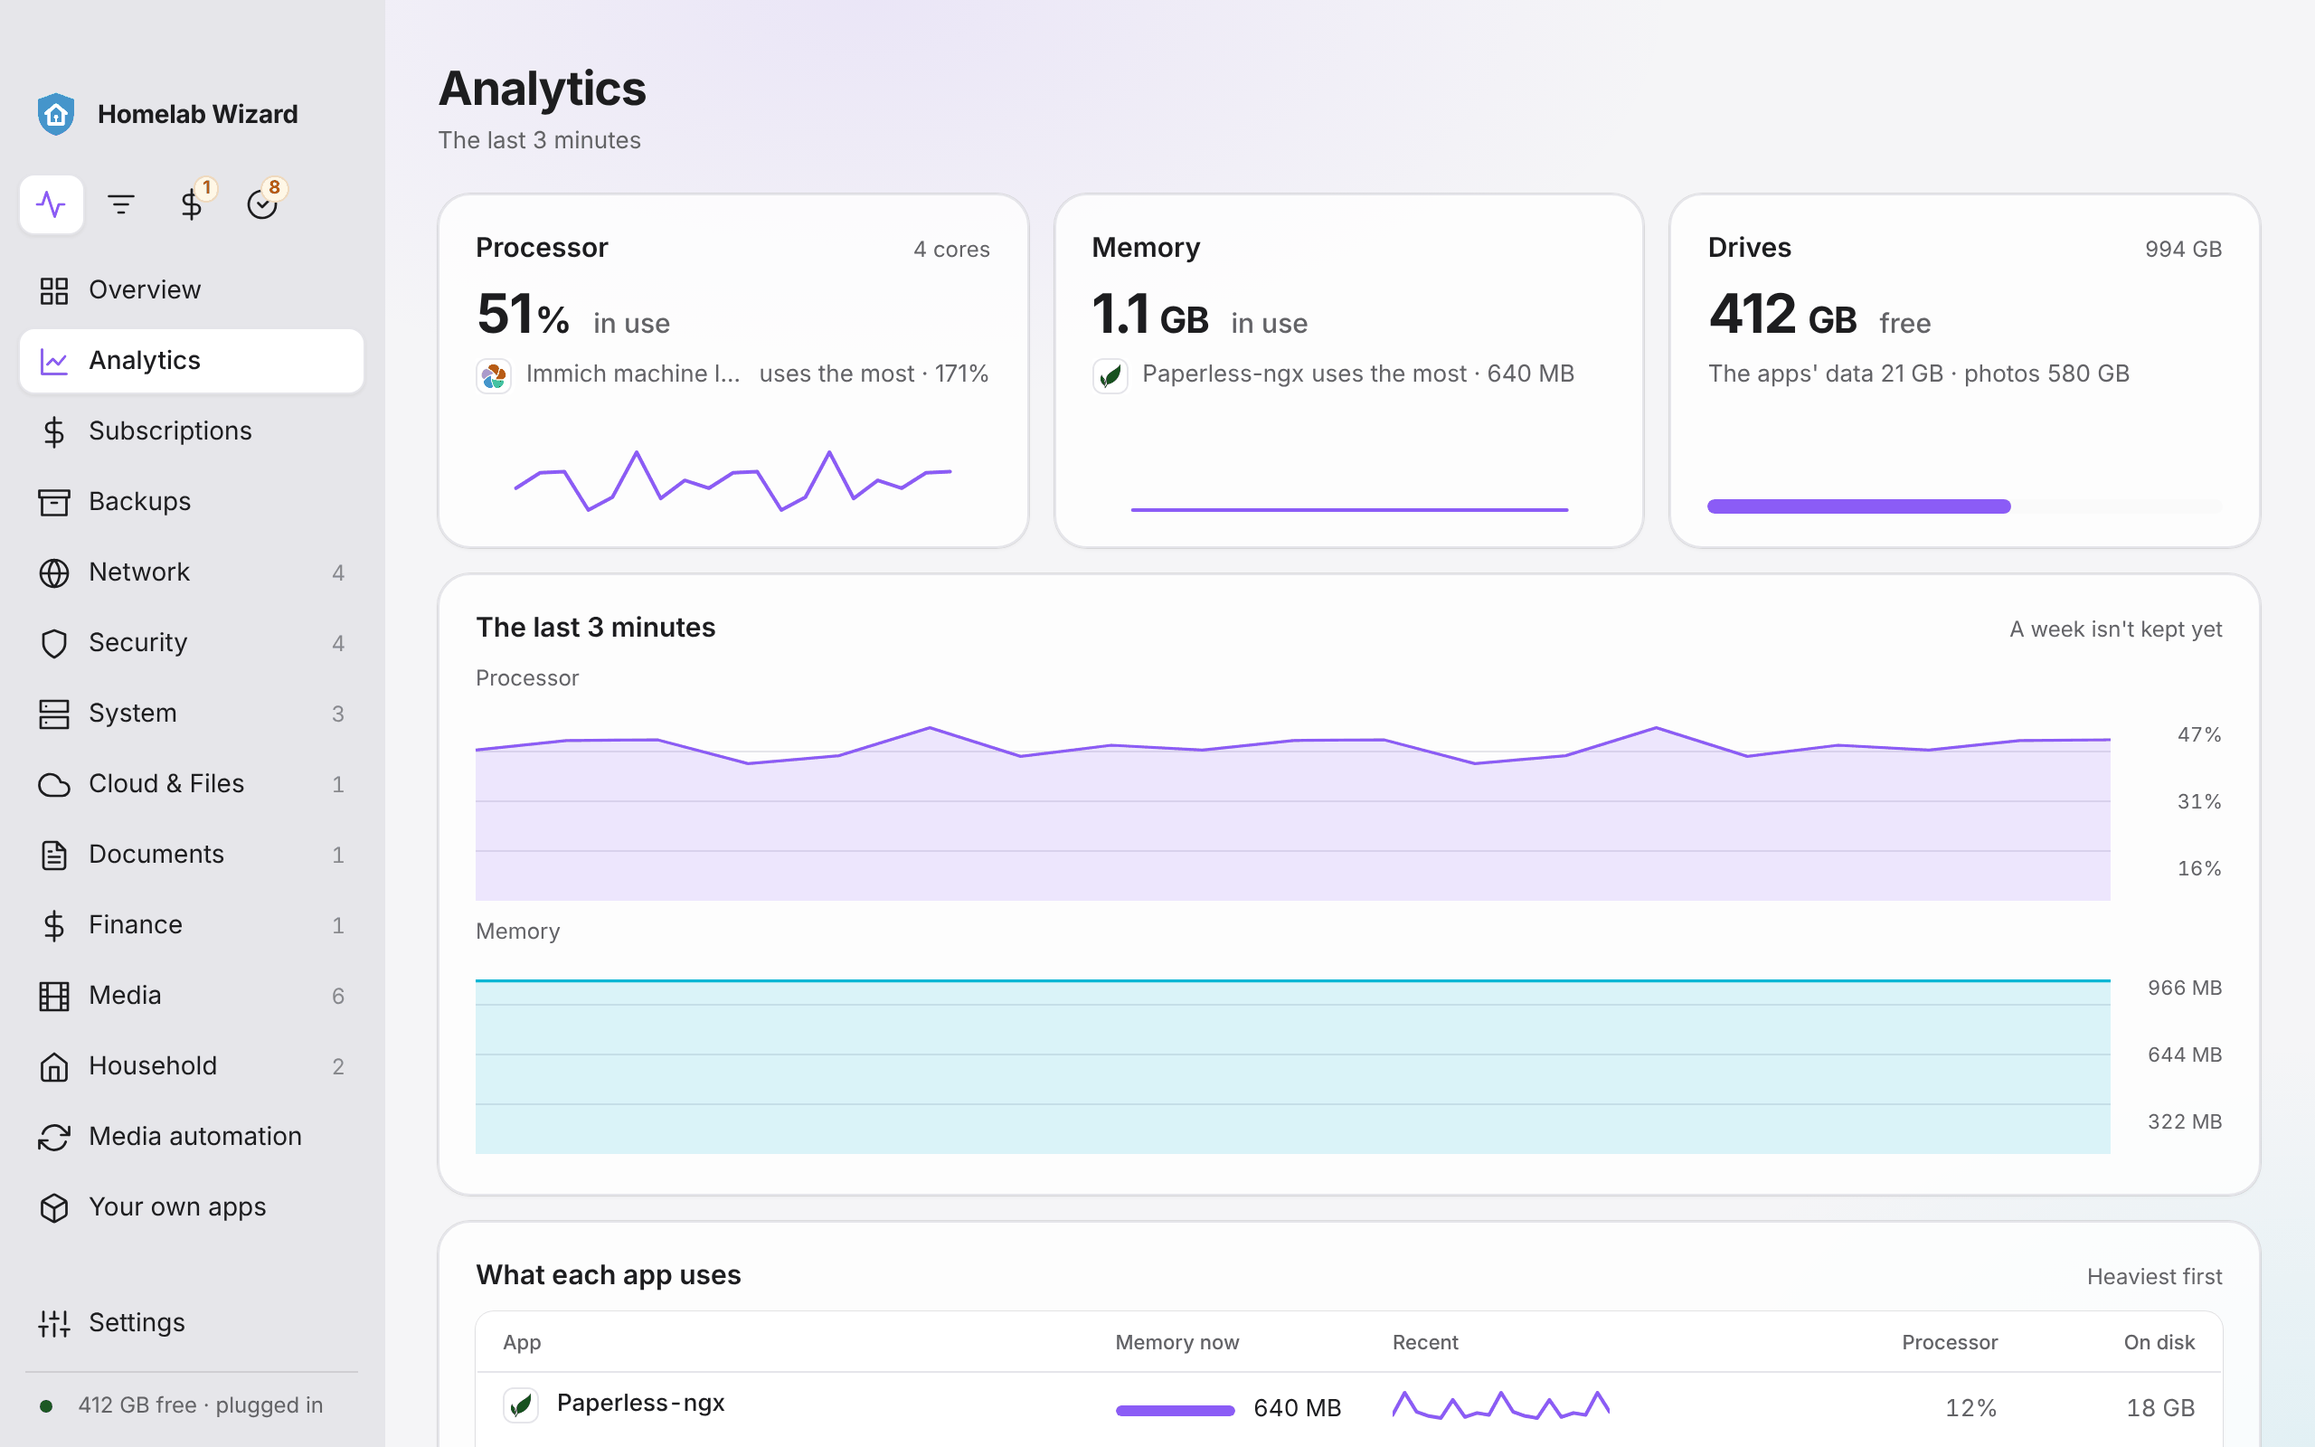
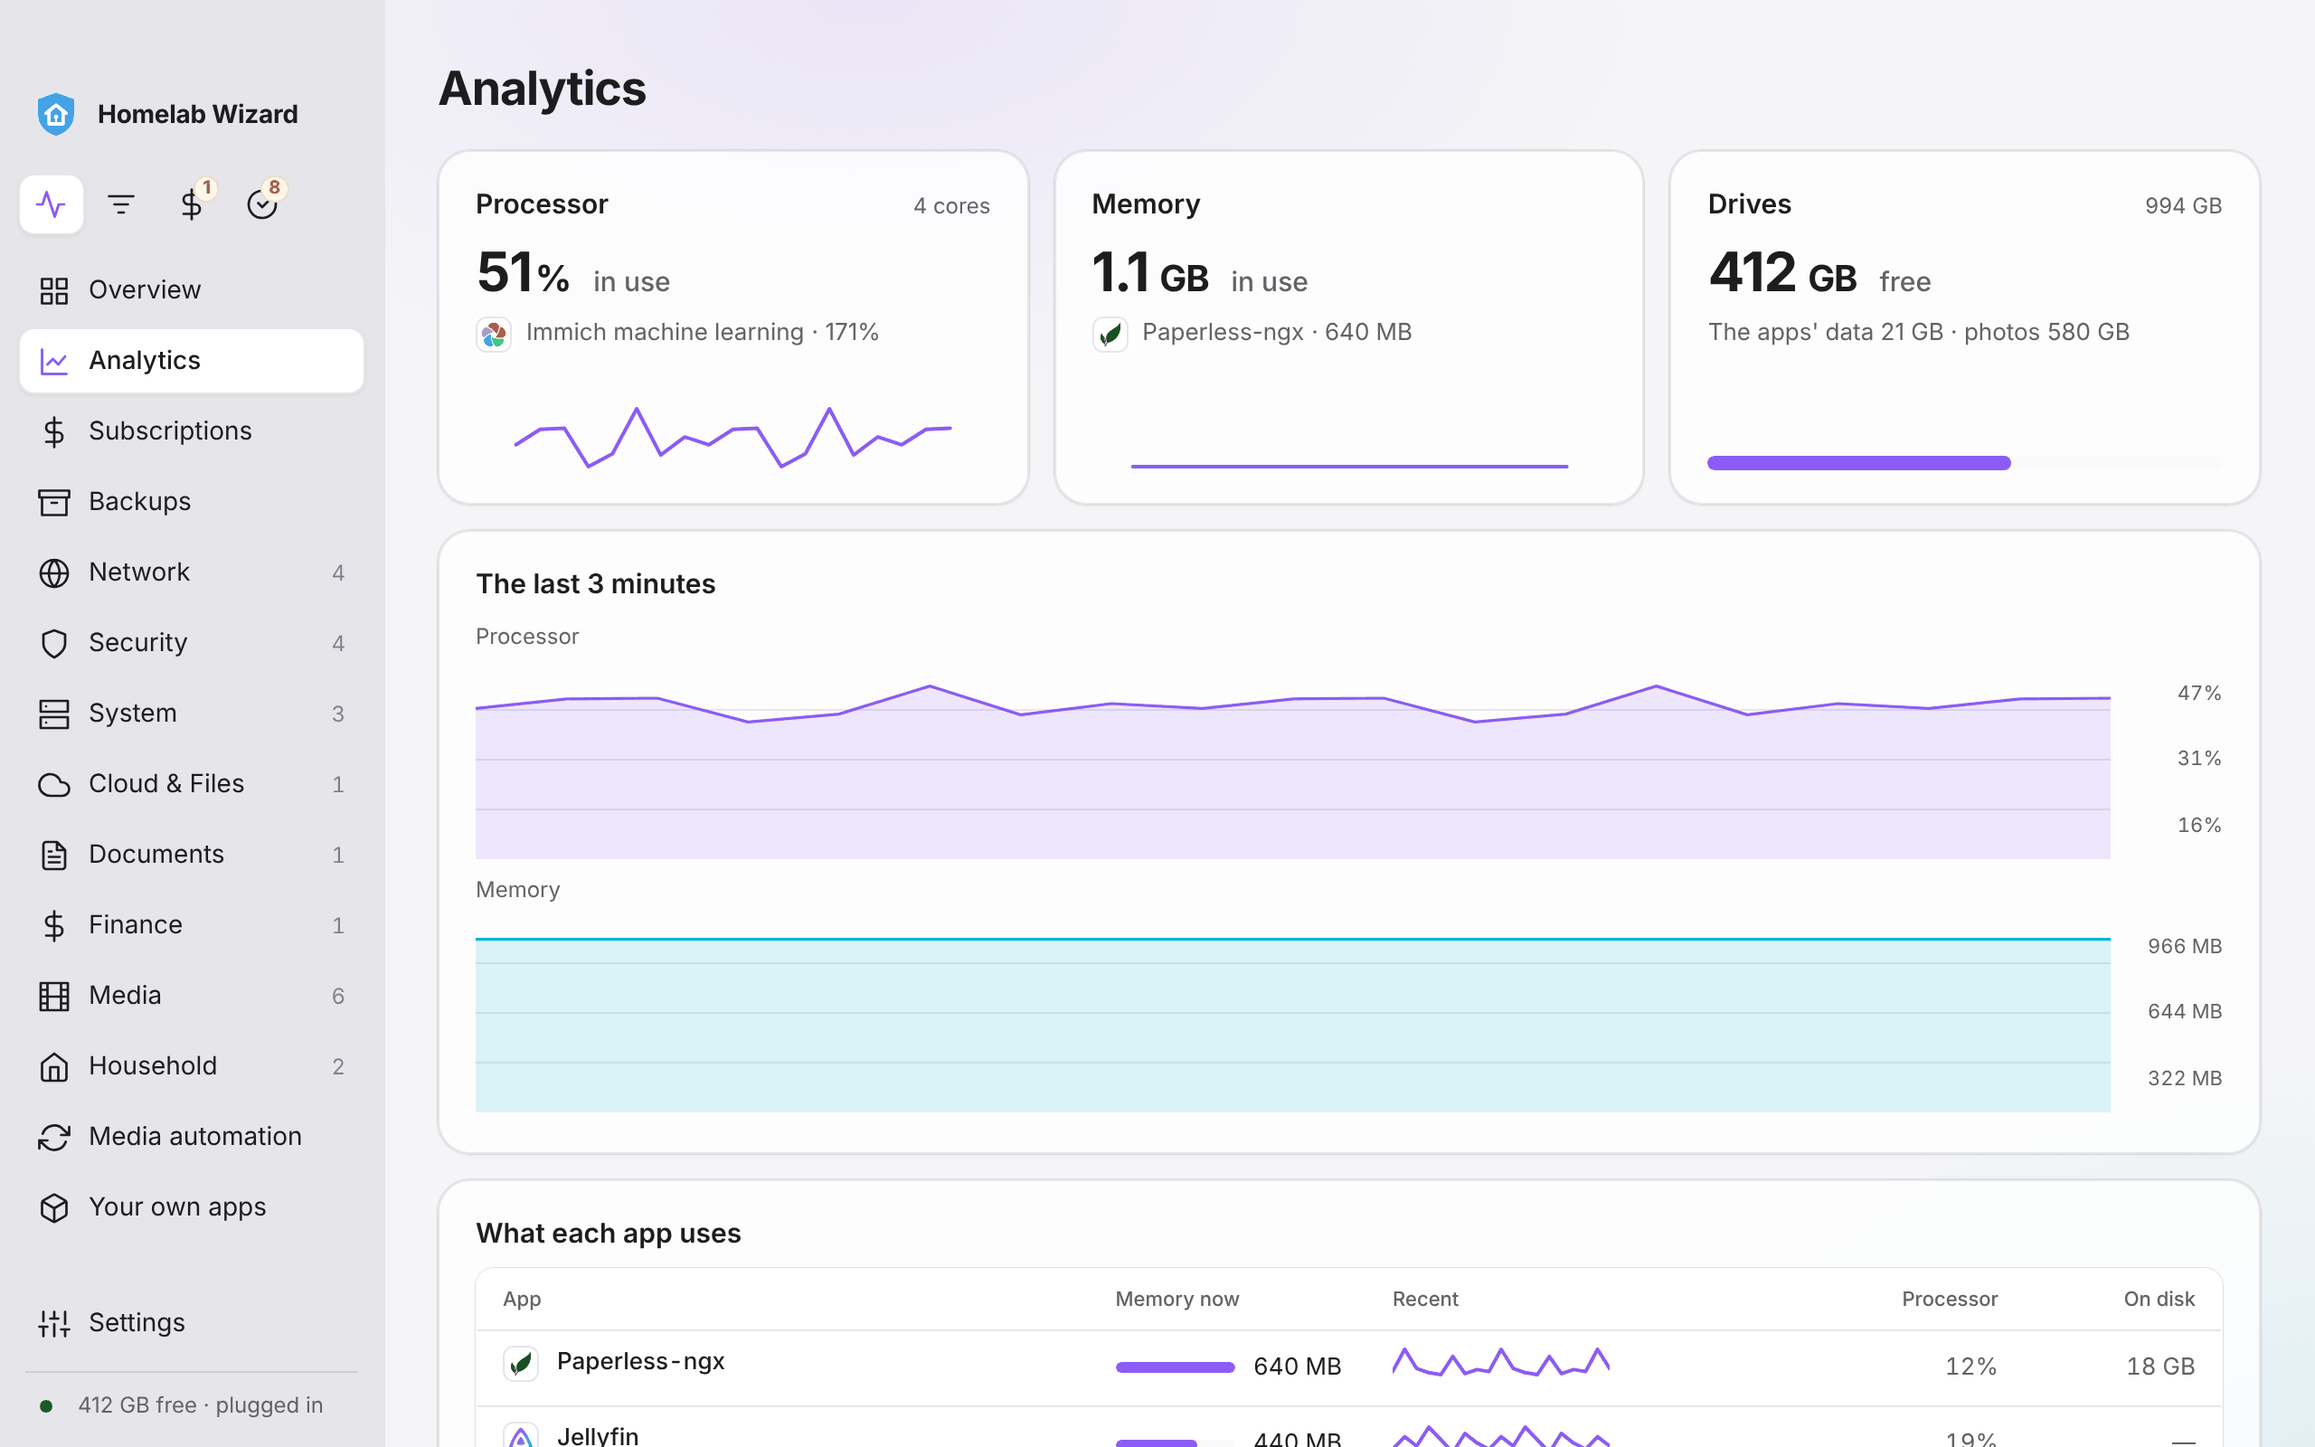
Analytics says less: the busiest app and its figure, no narration (#941)
* Analytics says less: no "uses the most", no second span, no narration

The Processor and Memory cards name the busiest app and its figure
("Immich machine learning · 171%"), so the name is no longer cut
short. The page's lead (the same span the timeline card is titled
with), "A week isn't kept yet" and "Heaviest first" are gone. The
iPhone and iPad Analytics page follows.

Claude-Session: https://claude.ai/code/session_01MiSTxrm6MCnNDF7kXW7KV6

* Smoke: open This Mac before looking for the new homelab's folder

'Set it up for me on a new machine' opened Settings and waited for the
This Mac card to show /Users/you/Homelab. Once Settings has its pages
it opens on General and hides that card, so the check passed only when
the folder was drawn first. It failed on CI twice tonight (#938, #941),
and fails every time when Settings is given time to load first. It now
opens This Mac, as the other This Mac checks do, and checks the same
folder there.

Claude-Session: https://claude.ai/code/session_01MiSTxrm6MCnNDF7kXW7KV6

---------

diff --git a/web/dist/app.js b/web/dist/app.js
@@ -8324,10 +8324,7 @@
     const folders = (storage?.apps || []).reduce((s3, f4) => s3 + f4.bytes, 0);
     const photos = (storage?.photos || []).reduce((s3, p3) => s3 + p3.bytes, 0);
     return /* @__PURE__ */ u3("div", { class: "antpage", children: [
-      /* @__PURE__ */ u3("div", { class: "row header", children: /* @__PURE__ */ u3("div", { children: [
-        /* @__PURE__ */ u3("h1", { children: "Analytics" }),
-        /* @__PURE__ */ u3("p", { class: "lead", children: span })
-      ] }) }),
+      /* @__PURE__ */ u3("div", { class: "row header", children: /* @__PURE__ */ u3("div", { children: /* @__PURE__ */ u3("h1", { children: "Analytics" }) }) }),
       /* @__PURE__ */ u3("div", { class: "anttiles", children: [
         /* @__PURE__ */ u3(Card, { kind: "anttile", id: "antCpu", children: [
           /* @__PURE__ */ u3("div", { class: "anthead", children: [
@@ -8340,7 +8337,7 @@
             " ",
             /* @__PURE__ */ u3("span", { class: "muted", children: cores ? "in use" : "of a core" })
           ] }) : "—" }),
-          /* @__PURE__ */ u3("div", { class: "antline muted", children: read && busiest && cpu[busiest] >= 0.1 ? who(busiest, `uses the most · ${pct(cpu[busiest])}%`) : read ? /* @__PURE__ */ u3("span", { class: "antwho", children: "Every app idle" }) : who(void 0, "") }),
+          /* @__PURE__ */ u3("div", { class: "antline muted", children: read && busiest && cpu[busiest] >= 0.1 ? who(busiest, `· ${pct(cpu[busiest])}%`) : read ? /* @__PURE__ */ u3("span", { class: "antwho", children: "Every app idle" }) : who(void 0, "") }),
           /* @__PURE__ */ u3("div", { class: "antfoot", children: totals3.cpu.length > 2 ? /* @__PURE__ */ u3(Spark, { values: totals3.cpu, w: 240, h: 36, title: `The apps' processor, ${span.toLowerCase()}` }) : /* @__PURE__ */ u3("span", { class: "antempty" }) })
         ] }),
         /* @__PURE__ */ u3(Card, { kind: "anttile", id: "antMem", children: [
@@ -8354,7 +8351,7 @@
             " ",
             /* @__PURE__ */ u3("span", { class: "muted", children: "in use" })
           ] }) : "—" }),
-          /* @__PURE__ */ u3("div", { class: "antline muted", children: read && heaviest ? who(heaviest, `uses the most · ${formatMem(mem[heaviest] || 0)}`) : who(void 0, "") }),
+          /* @__PURE__ */ u3("div", { class: "antline muted", children: read && heaviest ? who(heaviest, `· ${formatMem(mem[heaviest] || 0)}`) : who(void 0, "") }),
           /* @__PURE__ */ u3("div", { class: "antfoot", children: totals3.mem.length > 2 ? /* @__PURE__ */ u3(Spark, { values: totals3.mem, w: 240, h: 36, title: `The apps' memory, ${span.toLowerCase()}` }) : /* @__PURE__ */ u3("span", { class: "antempty" }) })
         ] }),
         /* @__PURE__ */ u3(Card, { kind: "anttile", id: "antDisk", children: [
@@ -8376,7 +8373,7 @@
       /* @__PURE__ */ u3(Card, { kind: "antweek", id: "antTime", children: [
         /* @__PURE__ */ u3("div", { class: "anthead", children: [
           /* @__PURE__ */ u3("h2", { children: span }),
-          /* @__PURE__ */ u3("span", { class: "muted", children: "A week isn't kept yet" })
+          /* @__PURE__ */ u3("span", { class: "muted" })
         ] }),
         totals3.cpu.length > 2 ? /* @__PURE__ */ u3(S, { children: [
           /* @__PURE__ */ u3(Chart, { values: totals3.cpu, kind: "cpu", label: "Processor", mark: (v3) => `${Math.round(cores ? v3 / cores : v3)}%` }),
@@ -8386,7 +8383,7 @@
       /* @__PURE__ */ u3(Card, { kind: "antapps", id: "antApps", children: [
         /* @__PURE__ */ u3("div", { class: "anthead", children: [
           /* @__PURE__ */ u3("h2", { children: "What each app uses" }),
-          /* @__PURE__ */ u3("span", { class: "muted", children: "Heaviest first" })
+          /* @__PURE__ */ u3("span", { class: "muted" })
         ] }),
         rows.length ? /* @__PURE__ */ u3("table", { class: "anttable", children: [
           /* @__PURE__ */ u3("thead", { children: /* @__PURE__ */ u3("tr", { children: [

diff --git a/web/src/status/Analytics.tsx b/web/src/status/Analytics.tsx
@@ -128,18 +128,18 @@ export function Analytics({ stats, history, totals, cores, disk, storage, apps, 
   const photos = (storage?.photos || []).reduce((s, p) => s + p.bytes, 0);
   return (
     <div class="antpage">
-      <div class="row header"><div><h1>Analytics</h1><p class="lead">{span}</p></div></div>
+      <div class="row header"><div><h1>Analytics</h1></div></div>
       <div class="anttiles">
         <Card kind="anttile" id="antCpu">
           <div class="anthead"><h2>Processor</h2><span class="muted">{cores ? `${cores} cores` : ''}</span></div>
           <div class="antfig">{read ? <>{cores ? pct(totalCpu / cores) : pct(totalCpu)}<small>%</small> <span class="muted">{cores ? 'in use' : 'of a core'}</span></> : '—'}</div>
-          <div class="antline muted">{read && busiest && cpu[busiest] >= 0.1 ? who(busiest, `uses the most · ${pct(cpu[busiest])}%`) : read ? <span class="antwho">Every app idle</span> : who(undefined, '')}</div>
+          <div class="antline muted">{read && busiest && cpu[busiest] >= 0.1 ? who(busiest, `· ${pct(cpu[busiest])}%`) : read ? <span class="antwho">Every app idle</span> : who(undefined, '')}</div>
           <div class="antfoot">{totals.cpu.length > 2 ? <Spark values={totals.cpu} w={240} h={36} title={`The apps' processor, ${span.toLowerCase()}`} /> : <span class="antempty" />}</div>
         </Card>
         <Card kind="anttile" id="antMem">
           <div class="anthead"><h2>Memory</h2><span class="muted" /></div>
           <div class="antfig">{read ? <>{formatMem(totalMem).replace(/ (\w+)$/, '')}<small>{formatMem(totalMem).replace(/^[^ ]+/, '')}</small> <span class="muted">in use</span></> : '—'}</div>
-          <div class="antline muted">{read && heaviest ? who(heaviest, `uses the most · ${formatMem(mem[heaviest] || 0)}`) : who(undefined, '')}</div>
+          <div class="antline muted">{read && heaviest ? who(heaviest, `· ${formatMem(mem[heaviest] || 0)}`) : who(undefined, '')}</div>
           <div class="antfoot">{totals.mem.length > 2 ? <Spark values={totals.mem} w={240} h={36} title={`The apps' memory, ${span.toLowerCase()}`} /> : <span class="antempty" />}</div>
         </Card>
         <Card kind="anttile" id="antDisk">
@@ -151,14 +151,14 @@ export function Analytics({ stats, history, totals, cores, disk, storage, apps, 
       </div>
       {pressure && pressure.total > 0 && <Pressure m={pressure} stop={stop} />}
       <Card kind="antweek" id="antTime">
-        <div class="anthead"><h2>{span}</h2><span class="muted">A week isn't kept yet</span></div>
+        <div class="anthead"><h2>{span}</h2><span class="muted" /></div>
         {totals.cpu.length > 2 ? <>
           <Chart values={totals.cpu} kind="cpu" label="Processor" mark={(v) => `${Math.round(cores ? v / cores : v)}%`} />
           <Chart values={totals.mem} kind="mem" label="Memory" mark={(v) => formatMem(v)} />
         </> : <p class="muted antwait">Drawn as Status reads the apps, every 10 seconds</p>}
       </Card>
       <Card kind="antapps" id="antApps">
-        <div class="anthead"><h2>What each app uses</h2><span class="muted">Heaviest first</span></div>
+        <div class="anthead"><h2>What each app uses</h2><span class="muted" /></div>
         {rows.length ? <table class="anttable">
           <thead><tr><th>App</th><th>Memory now</th><th class="antspark">Recent</th><th class="num">Processor</th><th class="num">On disk</th></tr></thead>
           <tbody>

diff --git a/apple-client/Shared/Views/AnalyticsView.swift b/apple-client/Shared/Views/AnalyticsView.swift
@@ -42,7 +42,7 @@ struct AnalyticsPage: View {
                     memory(now, samples: samples)
                     drives(machine, appsData: now.appsData)
                 }
-                timeline(timelineSamples(samples), span: period == .now ? span : period.heading, kept: kept)
+                timeline(timelineSamples(samples), span: period == .now ? span : period.heading)
                 uses(now, apps: apps)
             }
             .padding(.horizontal)
@@ -77,7 +77,7 @@ struct AnalyticsPage: View {
             if !now.read {
                 Text("Not read yet")
             } else if let busiest = now.busiest {
-                who(busiest, words: "uses the most · \(UsageNow.percent(busiest.processor))%")
+                who(busiest, words: "· \(UsageNow.percent(busiest.processor))%")
             } else {
                 Text("Every app idle")
             }
@@ -89,7 +89,7 @@ struct AnalyticsPage: View {
     private func memory(_ now: UsageNow, samples: [UsageSample]) -> some View {
         OverviewCard(title: "Memory", figure: now.read ? UsageNow.memory(now.memory) : "—", unit: now.read ? "in use" : "") {
             if let heaviest = now.heaviest {
-                who(heaviest, words: "uses the most · \(UsageNow.memory(heaviest.memory))")
+                who(heaviest, words: "· \(UsageNow.memory(heaviest.memory))")
             } else {
                 Text("Not read yet")
             }
@@ -132,19 +132,11 @@ struct AnalyticsPage: View {
     // MARK: Over time
 
     @ViewBuilder
-    private func timeline(_ samples: [UsageSample], span: String, kept: Bool) -> some View {
+    private func timeline(_ samples: [UsageSample], span: String) -> some View {
         VStack(alignment: .leading, spacing: 10) {
-            HStack(alignment: .firstTextBaseline) {
-                Text(verbatim: span)
-                    .font(.headline)
-                    .foregroundStyle(Theme.ink)
-                Spacer()
-                if !kept {
-                    Text("A week isn't kept yet")
-                        .font(.subheadline)
-                        .foregroundStyle(Theme.secondaryInk)
-                }
-            }
+            Text(verbatim: span)
+                .font(.headline)
+                .foregroundStyle(Theme.ink)
             if samples.count > 2 {
                 Text("Processor")
                     .font(.subheadline)
@@ -202,15 +194,9 @@ struct AnalyticsPage: View {
     @ViewBuilder
     private func uses(_ now: UsageNow, apps: [AppStatus]) -> some View {
         VStack(alignment: .leading, spacing: 10) {
-            HStack(alignment: .firstTextBaseline) {
-                Text("What each app uses")
-                    .font(.headline)
-                    .foregroundStyle(Theme.ink)
-                Spacer()
-                Text("Heaviest first")
-                    .font(.subheadline)
-                    .foregroundStyle(Theme.secondaryInk)
-            }
+            Text("What each app uses")
+                .font(.headline)
+                .foregroundStyle(Theme.ink)
             if now.rows.isEmpty {
                 Text("Not read yet")
                     .font(.subheadline)

diff --git a/CHANGELOG.md b/CHANGELOG.md
@@ -326,6 +326,7 @@ Notes are grouped as **New**, **Improved**, and **Fixed**, one line each, in pla
 - **Bills on the Homelab app shows a pay period as the computer does:** on the iPhone and iPad, each pay period starts with whose paycheck it is, says what checking holds on payday once its own payments are out and what the period itself comes to, lists every account after it with what changed, and says under each bill how it's paid: its kind, on a card, from another account, or from someone else.
 - **The Homelab app's Transactions search finds what the computer's finds:** on the iPhone and iPad, search by what a charge came to (86.10 or 1,240.55), its day (Oct 28) or its account, as well as the payee, category, note or tag. Each word you type can be anywhere in the row, so *corner work* finds Corner Café tagged work.
 <!-- Everything else (the other lanes): add a line just below this one. -->
+- **Analytics says less:** the Processor and Memory cards name the busiest app and its figure (*Immich · 171%*), without *uses the most*, so the name is no longer cut short. Gone too: the page's second *The last 3 minutes*, *A week isn't kept yet* and *Heaviest first*. The same on the iPhone and iPad.
 - **Status lines up:** on the computer and the web page, *More…* sits level with *Update apps*, and each category's name starts in the same place whether it shows one logo or three. The same on the iPhone and iPad.
 - **Media automation tucked away on Status:** Seerr, where you ask for a film or show, now sits beside Jellyfin under Media. Prowlarr, Sonarr, Radarr and the other apps that find and download what you ask for sit last, folded under one line, *Media automation: finds and downloads what you ask for in Seerr*, and open with a click or when one needs a look. The Downloads card above says what they're getting.
 - **A download nobody is sharing no longer sits there:** after 6 hours stuck, Tidy Up hands it back to Sonarr, Radarr or Lidarr, which drop that release and look for another, and Recent activity says so. Downloads still moving, and ones you added to qBittorrent yourself, are left alone; *Try another after a stuck download* in Settings changes the hours, 0 turns it off.
